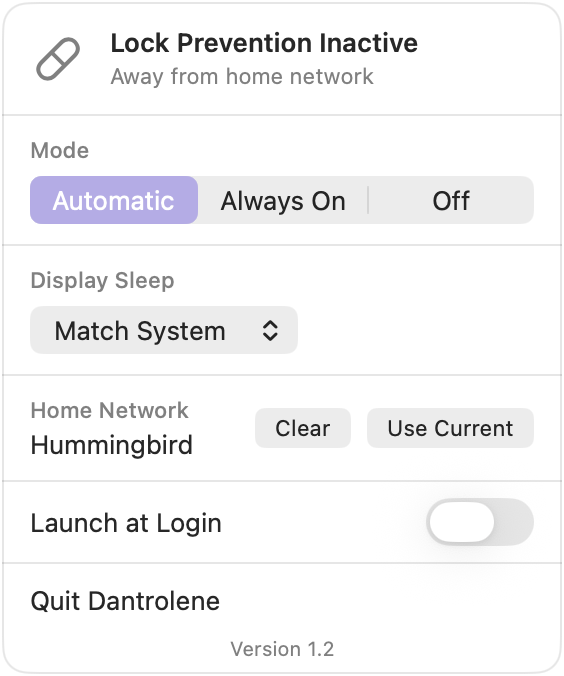
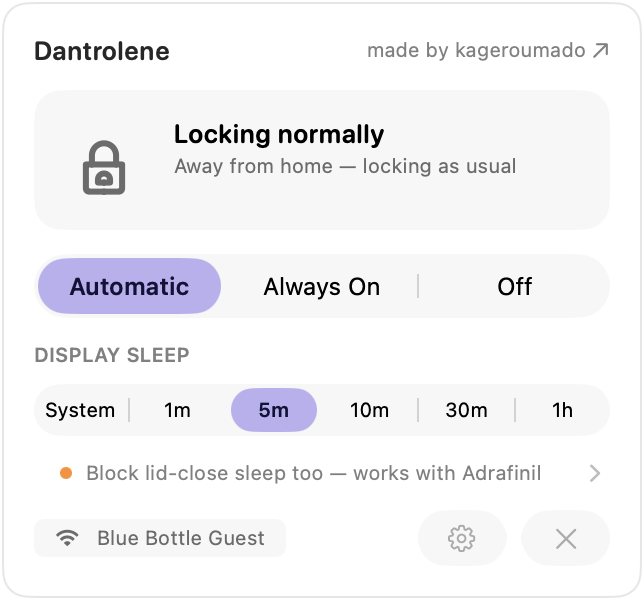
docs: README in the kagerou house style
Typing-svg header, editions table, gallery-stage screenshots (home and
away at 2x with alpha corners), the arc-house icon render, setup steps
matching the page-based popover, and the Building / License /
Acknowledgements tail. The headless compile command is verified.

diff --git a/README.md b/README.md
@@ -1,21 +1,56 @@
-# Dantrolene
+<div align="center">
 
-A macOS menu bar utility that automatically prevents screen lock when connected to your home WiFi network.
+[![dantrolene](https://readme-typing-svg.demolab.com/?font=DotGothic16&weight=400&size=22&duration=3800&pause=900&color=858CFC&center=true&vCenter=true&width=820&height=60&lines=a%20muscle%20relaxant%20for%20the%20lock%20screen%20%E2%99%A1;it%20knows%20which%20wifi%20is%20home;everywhere%20else%20it%20locks%20like%20it%20should;rx%20no.%20003%20%E3%83%BB%20%E5%BC%9B%E7%B7%A9%20%E3%83%BB%20%E3%81%9F%E3%81%A0%E3%81%84%E3%81%BE%20%E2%94%80%E2%94%80%20%E3%81%8A%E3%81%8B%E3%81%88%E3%82%8A)](https://kagerou.glass)
 
-Named after [dantrolene](https://en.wikipedia.org/wiki/Dantrolene), the muscle relaxant that prevents muscles from locking up — this app prevents your screen from locking up.
+<img src=".github/dantrolene-icon.png" alt="Dantrolene icon" width="128" height="128">
+
+# dantrolene
+
+**rx no. 003 ・ dan·tro·lene /ˈdæntrəliːn/ ・ a muscle relaxant for the lock screen ♡**
+
+[![kagerou.glass](https://img.shields.io/badge/kagerou.glass-858CFC?style=for-the-badge&logo=safari&logoColor=white)](https://kagerou.glass/dantrolene/)
+[![@kageroumado](https://img.shields.io/badge/@kageroumado-76e6e0?style=for-the-badge&logo=x&logoColor=0d0a10)](https://x.com/kageroumado)
+[![macOS Tahoe](https://img.shields.io/badge/macOS-Tahoe_26%2B-0d0a10?style=for-the-badge&logo=apple&logoColor=white)](#requirements)
+
+<table>
+  <tr>
+    <td align="center"><img src=".github/dantrolene-home.png" alt="Home — the arc-house mark and Preventing lock on the home network, with mode and display sleep pill selectors" width="380"><br><sub><b>home</b> ・ on your wifi — the screen never locks</sub></td>
+    <td align="center"><img src=".github/dantrolene-away.png" alt="Away — the mark folds into a padlock and the Mac locks normally away from the home network" width="380"><br><sub><b>away</b> ・ any other network, it locks like it should</sub></td>
+  </tr>
+</table>
+
+</div>
+
+> **服用注意 ・ for the Macs that live at home.**
+>
+> Lock timeouts make sense on a train, in an office, anywhere a stranger might walk past. At home
+> they're a reflex with no predator: the screen seizes up mid-paragraph, mid-movie, and asks for
+> the password it asked an hour ago. Dantrolene, the drug, is what you give a body that clenches
+> when it shouldn't. The app watches which WiFi you're on — on the network you call home, the lock
+> chain never starts. Everywhere else, the reflex stays. ♡
+
+---
+
+Your Mac stops locking **while you're on your home WiFi** — and locks like it should everywhere else.
+
+Dantrolene is a macOS menu bar app that holds a display power assertion while you're on a network
+you designated as home, so the idle screen lock never fires. It still *looks* like display sleep:
+after your usual timeout the screen dims and goes dark, and any activity brings it back instantly —
+with no password between you and the sentence you were reading.
 
 ## Features
 
-- **Three modes**: Automatic (WiFi-based), Always On, Off
-- **Display sleep simulation**: Dims and turns off the display after idle timeout, restoring on activity — behaves like native display sleep while the lock assertion is active
-- **Conflict-aware**: Detects when other apps (Zoom, presentations) hold display assertions and backs off
-- **Lid-close sleep blocking**: When [Adrafinil](https://github.com/kageroumado/adrafinil) is installed, Dantrolene can hold your Mac awake with the lid closed while on the home network, releasing the hold the moment you leave
-- **Launch at Login** via ServiceManagement
-- **Sleep/wake aware**: Releases assertions on system sleep, re-evaluates on wake
+- **Automatic, by network.** Set your home WiFi once; lock prevention follows you on and off it. Always On and Off modes when you want manual control.
+- **Display sleep simulation.** The display still dims and turns off on your schedule (or matching the system setting) — it just never locks. Restores instantly on activity.
+- **Conflict-aware.** When another app already holds a display assertion — a video call, a presentation — Dantrolene notices and backs off.
+- **Lid-close sleep blocking.** With [Adrafinil](https://github.com/kageroumado/adrafinil) installed, Dantrolene can also hold the Mac awake through a closed lid while at home, releasing the moment you leave.
+- **Sleep/wake aware.** Releases its assertions on system sleep and re-evaluates on wake.
+- **Launch at Login,** then forget it exists.
+- **Nothing phones home.** No server, no analytics, no network connections — the WiFi name is checked on-device. See [PRIVACY.md](PRIVACY.md).
 
 ## Editions
 
-Dantrolene ships in two editions with the same version number; the popover footer shows which one you're running.
+Dantrolene ships in two editions with the same version number; the Settings page footer shows which one you're running.
 
 | | GitHub (this repo) | Mac App Store |
 |---|---|---|
@@ -24,24 +59,85 @@ Dantrolene ships in two editions with the same version number; the popover foote
 | Lid-close sleep blocking via Adrafinil | Yes | No (sandboxing prevents talking to the Adrafinil daemon) |
 | Sandboxed | No | Yes |
 
-The GitHub edition is the full-featured one; the App Store edition exists as a convenient, supported way to get the core WiFi-based lock prevention.
+The GitHub edition is the full-featured one; the App Store edition exists as a convenient, supported way to get the core WiFi-based lock prevention — and buying it supports development.
 
 ## How it works
 
-macOS locks the screen when the display sleeps due to idle timeout. Dantrolene prevents this by holding an IOKit power assertion (`PreventUserIdleDisplaySleep`) that tells the system not to idle-sleep the display. Since the display never idle-sleeps, the lock chain never fires.
+macOS locks the screen when the display sleeps due to idle timeout. Dantrolene prevents this by
+holding an IOKit power assertion (`PreventUserIdleDisplaySleep`) that tells the system not to
+idle-sleep the display. Since the display never idle-sleeps, the lock chain never fires.
 
-To avoid the display staying on forever, Dantrolene includes a **display sleep simulator** that mimics the native behavior: after a configurable idle timeout (or matching your system setting), it dims the display brightness to near-zero, then turns it off entirely. Any user activity instantly restores the original brightness. This uses Apple's private `DisplayServices.framework` for display brightness and `KeyboardBrightnessClient` for keyboard backlight control.
+To avoid the display staying lit forever, Dantrolene includes a **display sleep simulator** that
+mimics the native behavior: after a configurable idle timeout (or matching your system setting),
+it dims the display to near-zero, then turns it off entirely. Any user activity instantly restores
+the original brightness. The GitHub edition drives the real backlight through Apple's private
+`DisplayServices.framework` (and `KeyboardBrightnessClient` for the keyboard); the App Store
+edition simulates the same sequence with black overlay windows, since sandboxed apps can't touch
+private frameworks.
 
-WiFi SSID detection uses CoreWLAN with CoreLocation authorization (macOS requires Location Services permission to read the current SSID).
+WiFi SSID detection uses CoreWLAN with CoreLocation authorization (macOS requires Location
+Services permission to read the current SSID). The network name is compared on-device and never
+leaves your Mac.
+
+> **服用注意 ・ side effects.** An SSID is a name, not a proof: anyone can call their hotspot what
+> you call home, so treat this as comfort, not security. The GitHub edition's backlight dimming
+> rides on private frameworks, so a macOS update may break it someday.
 
 ## Requirements
 
-- macOS 26+
-- Location Services permission (required by macOS to read WiFi SSID)
+- **macOS Tahoe 26+**
+- **Location Services permission** (required by macOS to read the WiFi SSID)
+- **Xcode 26+** to build, with Swift 6 strict concurrency enabled
+
+## Download
+
+**[Download Dantrolene](https://github.com/kageroumado/dantrolene/releases/latest)** — a signed,
+notarized disk image. Open it, drag **Dantrolene** to Applications, and launch.
 
 ## Setup
 
-1. Launch the app — a pill icon appears in the menu bar
+1. Launch the app — a small house appears in the menu bar
 2. Grant Location Services when prompted
-3. Click the pill icon → **Use Current** to set your home network
-4. Enable **Launch at Login** to start automatically
+3. Click the house → **Choose…** → **Set as Home** on the network you're connected to
+4. Enable **Launch at Login** (behind the gear) and forget it exists
+
+When you leave home, the house folds shut into a padlock — the tell that your Mac locks
+normally again.
+
+## Building
+
+```sh
+git clone https://github.com/kageroumado/dantrolene.git
+cd dantrolene
+open Dantrolene.xcodeproj
+```
+
+Two schemes: **Dantrolene** (the GitHub edition) and **Dantrolene-AppStore** (sandboxed; the
+`APPSTORE` compilation condition swaps the private-framework display sleep for overlay windows
+and compiles out the Adrafinil integration). Select one, set your development team, Run.
+
+For a headless compile check without local signing identities:
+
+```sh
+xcodebuild -project Dantrolene.xcodeproj -scheme Dantrolene -configuration Debug \
+  -destination 'generic/platform=macOS' \
+  CODE_SIGNING_ALLOWED=NO CODE_SIGNING_REQUIRED=NO CODE_SIGN_IDENTITY='' build
+```
+
+## The name
+
+Named after [dantrolene](https://en.wikipedia.org/wiki/Dantrolene), the muscle relaxant that
+prevents muscles from locking up — this app prevents your screen from locking up. Same shelf as
+[Adrafinil](https://github.com/kageroumado/adrafinil), a different prescription: Adrafinil keeps
+the whole machine awake while agents work; Dantrolene only keeps the screen unlocked while you're
+home.
+
+## License
+
+[MIT](LICENSE). Do whatever you want, no warranty.
+
+## Acknowledgements
+
+Built by [@kageroumado](https://x.com/kageroumado), dispensed at
+[kagerou.glass](https://kagerou.glass). The mark is a wifi signal that grew a roof: at home the
+arcs stand open as a house; anywhere else they fold shut into a padlock.